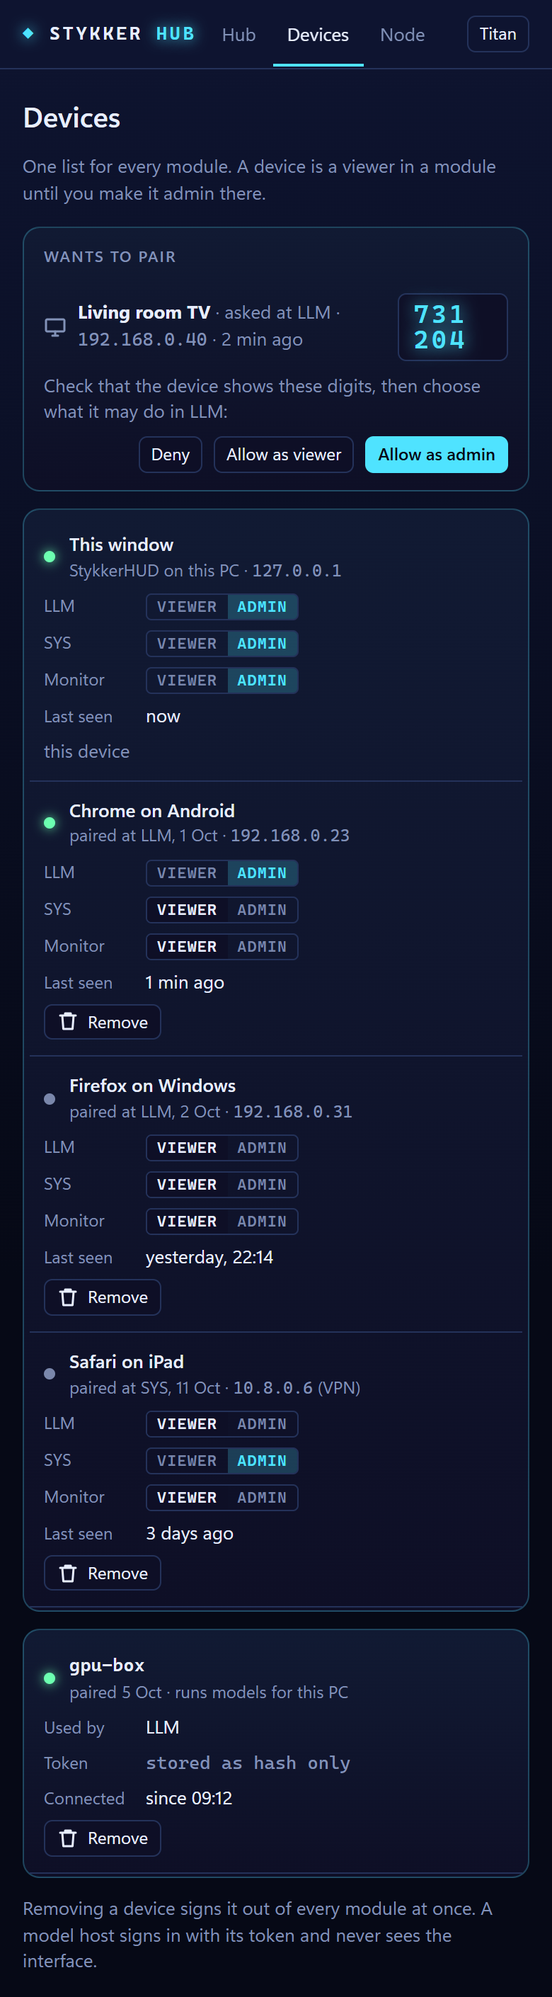
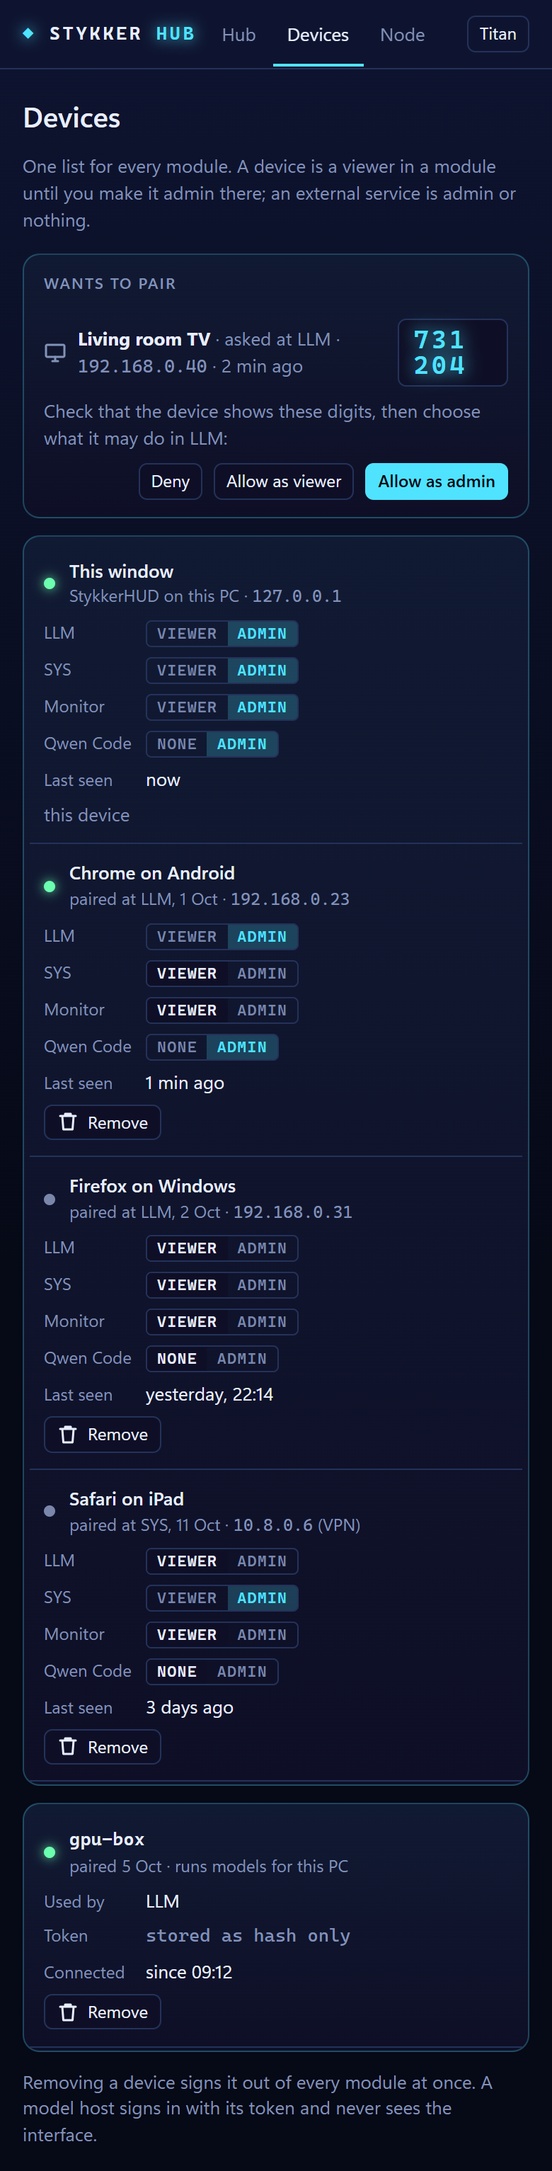
docs: own modules in the frame, mockup as a shell with a frame
HUD, SYS and LLM were shown in the hub frame; the sign-in holds across
ports as long as hub and module share a host name. The mockup keeps the
hub bar on top, shows LLM and Qwen Code in a frame and lists Qwen Code
as an external service for admins only.

diff --git a/docs/design/mockup-zentrale.html b/docs/design/mockup-zentrale.html
@@ -150,6 +150,35 @@ td.r,th.r{text-align:right}
 
 .note{margin-top:18px;color:var(--muted);font-size:12px}
 
+/* ── Hülle: die Leiste bleibt, das Modul läuft im Frame darunter ── */
+:root,[data-theme="dark"]{--m-ext:#ff6fb5}
+[data-theme="titan"]{--m-ext:#9a3b2e}
+nav .mod.ext::before{border-radius:1px;transform:rotate(45deg)}
+main.shell{max-width:none;padding:0}
+.framebar{display:flex;align-items:center;gap:10px;padding:6px 16px;border-bottom:1px solid var(--line);color:var(--muted);font-size:12px;flex-wrap:wrap}
+.framebar .grow{margin-left:auto;display:flex;align-items:center;gap:10px}
+.frame{min-height:calc(100vh - 82px);background:var(--bg)}
+.frame .inner{max-width:1360px;margin:0 auto;padding:14px 16px}
+.modnav{display:flex;align-items:center;gap:4px;margin-bottom:14px;flex-wrap:wrap}
+.modnav span{padding:5px 10px;border:1px solid transparent;border-radius:var(--radius-sm);color:var(--muted)}
+.modnav span.on{color:var(--ink);background:var(--card-2);border-color:var(--line)}
+.modnav .right{margin-left:auto;display:flex;gap:8px}
+/* Qwen bringt seine eigene Gestaltung mit: neutral dunkel, in beiden Themen gleich */
+.foreign{background:#0b0b0c;color:#e9e9ea;display:grid;grid-template-columns:52px 280px 1fr;min-height:calc(100vh - 82px);font-family:"Segoe UI",system-ui,sans-serif}
+.foreign .rail{border-right:1px solid #232326;display:grid;align-content:start;gap:14px;padding:14px 0;justify-items:center}
+.foreign .rail i{width:22px;height:22px;border-radius:6px;background:#1c1c1f}
+.foreign .rail i.on{background:#2a2a2f}
+.foreign .side{border-right:1px solid #232326;padding:14px}
+.foreign .side h3{font-size:16px;margin-bottom:14px}
+.foreign .side p{margin:6px 0;color:#8d8d93}
+.foreign .side p b{color:#e9e9ea;font-weight:600}
+.foreign .stage{display:grid;place-content:center;gap:14px;padding:24px;text-align:center}
+.foreign .stage h2{font-size:26px}
+.foreign .stage h2 em{font-style:normal;color:#7b6cf6}
+.foreign .composer{width:min(720px,70vw);text-align:left;background:#1d1d20;border:1px solid #3a4a7a;border-radius:10px;padding:14px;color:#8d8d93}
+.foreign .composer div{margin-top:26px;font-size:12px}
+@media (max-width:900px){.foreign{grid-template-columns:1fr}.foreign .rail,.foreign .side{display:none}}
+
 @media (max-width:1020px){.cols{grid-template-columns:1fr}}
 @media (max-width:640px){
   .tiles,.pair-wrap{grid-template-columns:1fr}
@@ -201,6 +230,8 @@ td.r,th.r{text-align:right}
       <button class="mod" style="--m:var(--m-hud)">Monitor</button>
       <button class="mod off">CMD</button>
       <span class="sep"></span>
+      <button data-view="qwen" class="mod ext" style="--m:var(--m-ext)">Qwen Code</button>
+      <span class="sep"></span>
       <button data-view="pair">Sign-in page</button>
     </nav>
     <div class="tools">
@@ -215,7 +246,7 @@ td.r,th.r{text-align:right}
 
 <!-- ═══ Hub ═══ -->
 <section class="view" id="hub">
-  <div class="head"><h1>Hub</h1><span class="muted">3 of 4 modules running · node up <span class="num">6 d 4 h</span></span></div>
+  <div class="head"><h1>Hub</h1><span class="muted">3 of 4 modules running · 1 external service · node up <span class="num">6 d 4 h</span></span></div>
   <div class="cols">
     <div class="stack">
       <div class="notice">
@@ -233,7 +264,7 @@ td.r,th.r{text-align:right}
             <div class="metric"><span class="v">17.2<small>/ 24 GB</small></span><span class="k"><svg class="ic"><use href="#i-vram"/></svg>VRAM</span></div>
           </div>
           <div class="bar-track"><i style="width:72%"></i></div>
-          <div class="tile-foot"><span class="role"><span class="role-tag admin">admin</span></span><span class="muted mono">/llm</span><button class="btn sm">Open<svg class="ic"><use href="#i-open"/></svg></button></div>
+          <div class="tile-foot"><span class="role"><span class="role-tag admin">admin</span></span><span class="muted mono">:8078</span><button class="btn sm">Open<svg class="ic"><use href="#i-open"/></svg></button></div>
         </article>
 
         <article class="card tile" style="--m:var(--m-sys)">
@@ -244,7 +275,7 @@ td.r,th.r{text-align:right}
             <div class="metric"><span class="v">14.3<small>%</small></span><span class="k"><svg class="ic"><use href="#i-cpu"/></svg>Top: llama-server</span></div>
           </div>
           <div class="bar-track"><i style="width:14%"></i></div>
-          <div class="tile-foot"><span class="role"><span class="role-tag">viewer</span> <span class="muted">· you can look, not end processes</span></span><span class="muted mono">/sys</span><button class="btn sm">Open<svg class="ic"><use href="#i-open"/></svg></button></div>
+          <div class="tile-foot"><span class="role"><span class="role-tag">viewer</span> <span class="muted">· you can look, not end processes</span></span><span class="muted mono">:8077</span><button class="btn sm">Open<svg class="ic"><use href="#i-open"/></svg></button></div>
         </article>
 
         <article class="card tile" style="--m:var(--m-hud)">
@@ -255,13 +286,19 @@ td.r,th.r{text-align:right}
             <div class="metric"><span class="v">61.0<small>%</small></span><span class="k"><svg class="ic"><use href="#i-vram"/></svg>GPU</span></div>
           </div>
           <div class="bar-track"><i style="width:23%"></i></div>
-          <div class="tile-foot"><span class="role"><span class="role-tag admin">admin</span></span><span class="muted mono">/hud</span><button class="btn sm">Open<svg class="ic"><use href="#i-open"/></svg></button></div>
+          <div class="tile-foot"><span class="role"><span class="role-tag admin">admin</span></span><span class="muted mono">:8079</span><button class="btn sm">Open<svg class="ic"><use href="#i-open"/></svg></button></div>
         </article>
 
         <article class="card tile off" style="--m:var(--m-cmd)">
           <div class="tile-top"><h2>CMD</h2><span class="what">File manager</span><span class="chip state"><span class="lamp"></span>Not connected</span></div>
           <p class="muted" style="margin:0">StykkerCMD has no web interface yet. Once it has one, it appears here and shares the devices you already paired. File access will need the <span class="mono">admin</span> role and a list of folders you allow.</p>
           <div class="tile-foot"><span class="role muted">Not installed as a module</span></div>
+        </article>
+
+        <article class="card tile" style="--m:var(--m-ext)">
+          <div class="tile-top"><h2>QWEN CODE</h2><span class="what">Coding agent · external</span><span class="chip on state"><span class="lamp good"></span>Reachable</span></div>
+          <p class="muted" style="margin:0">Not a Stykker program. The node shows it in a frame and signs in for you, so a paired device needs no second code. An external service has no viewer role: it is open to admins or to nobody.</p>
+          <div class="tile-foot"><span class="role"><span class="role-tag admin">admin only</span></span><span class="muted mono">:8076</span><button class="btn sm">Open<svg class="ic"><use href="#i-open"/></svg></button></div>
         </article>
 
       </div>
@@ -292,7 +329,7 @@ td.r,th.r{text-align:right}
 
 <!-- ═══ Devices ═══ -->
 <section class="view" id="devices">
-  <div class="head"><h1>Devices</h1><span class="muted">One list for every module. A device is a viewer in a module until you make it admin there.</span></div>
+  <div class="head"><h1>Devices</h1><span class="muted">One list for every module. A device is a viewer in a module until you make it admin there; an external service is admin or nothing.</span></div>
   <div class="stack">
     <div class="card request">
       <span class="label">Wants to pair</span>
@@ -309,13 +346,14 @@ td.r,th.r{text-align:right}
 
     <div class="card" style="padding:4px 4px 2px">
       <table>
-        <thead><tr><th>Device</th><th>LLM</th><th>SYS</th><th>Monitor</th><th>Last seen</th><th class="r"></th></tr></thead>
+        <thead><tr><th>Device</th><th>LLM</th><th>SYS</th><th>Monitor</th><th>Qwen Code</th><th>Last seen</th><th class="r"></th></tr></thead>
         <tbody>
           <tr>
             <td><div class="dev"><span class="lamp good"></span><div><b>This window</b><small>StykkerHUD on this PC · <span class="mono">127.0.0.1</span></small></div></div></td>
             <td data-k="LLM"><span class="seg"><span>viewer</span><span class="on admin">admin</span></span></td>
             <td data-k="SYS"><span class="seg"><span>viewer</span><span class="on admin">admin</span></span></td>
             <td data-k="Monitor"><span class="seg"><span>viewer</span><span class="on admin">admin</span></span></td>
+            <td data-k="Qwen Code"><span class="seg"><span>none</span><span class="on admin">admin</span></span></td>
             <td data-k="Last seen">now</td>
             <td class="r"><span class="muted">this device</span></td>
           </tr>
@@ -324,6 +362,7 @@ td.r,th.r{text-align:right}
             <td data-k="LLM"><span class="seg"><span>viewer</span><span class="on admin">admin</span></span></td>
             <td data-k="SYS"><span class="seg"><span class="on">viewer</span><span>admin</span></span></td>
             <td data-k="Monitor"><span class="seg"><span class="on">viewer</span><span>admin</span></span></td>
+            <td data-k="Qwen Code"><span class="seg"><span>none</span><span class="on admin">admin</span></span></td>
             <td data-k="Last seen">1 min ago</td>
             <td class="r"><button class="btn sm danger"><svg class="ic"><use href="#i-trash"/></svg>Remove</button></td>
           </tr>
@@ -332,6 +371,7 @@ td.r,th.r{text-align:right}
             <td data-k="LLM"><span class="seg"><span class="on">viewer</span><span>admin</span></span></td>
             <td data-k="SYS"><span class="seg"><span class="on">viewer</span><span>admin</span></span></td>
             <td data-k="Monitor"><span class="seg"><span class="on">viewer</span><span>admin</span></span></td>
+            <td data-k="Qwen Code"><span class="seg"><span class="on">none</span><span>admin</span></span></td>
             <td data-k="Last seen">yesterday, 22:14</td>
             <td class="r"><button class="btn sm danger"><svg class="ic"><use href="#i-trash"/></svg>Remove</button></td>
           </tr>
@@ -340,6 +380,7 @@ td.r,th.r{text-align:right}
             <td data-k="LLM"><span class="seg"><span class="on">viewer</span><span>admin</span></span></td>
             <td data-k="SYS"><span class="seg"><span>viewer</span><span class="on admin">admin</span></span></td>
             <td data-k="Monitor"><span class="seg"><span class="on">viewer</span><span>admin</span></span></td>
+            <td data-k="Qwen Code"><span class="seg"><span class="on">none</span><span>admin</span></span></td>
             <td data-k="Last seen">3 days ago</td>
             <td class="r"><button class="btn sm danger"><svg class="ic"><use href="#i-trash"/></svg>Remove</button></td>
           </tr>
@@ -367,42 +408,46 @@ td.r,th.r{text-align:right}
 
 <!-- ═══ Node ═══ -->
 <section class="view" id="node">
-  <div class="head"><h1>Node</h1><span class="muted">StykkerNode starts the modules and is the only door from the network.</span></div>
+  <div class="head"><h1>Node</h1><span class="muted">StykkerNode starts the modules and forwards to services that cannot be framed.</span></div>
   <div class="cols">
     <div class="stack">
       <div class="card" style="padding:4px 4px 2px">
         <table>
-          <thead><tr><th>Module</th><th>State</th><th>Listens on</th><th>Path</th><th>Up</th><th class="r"></th></tr></thead>
+          <thead><tr><th>Module</th><th>State</th><th>Listens on</th><th>In the hub</th><th>Up</th><th class="r"></th></tr></thead>
           <tbody>
             <tr>
               <td><div class="dev"><span class="lamp good"></span><div><b class="mono">LLM</b><small>StykkerLLM-Server · PID <span class="num">18 204</span></small></div></div></td>
-              <td data-k="State">Running</td><td data-k="Listens on" class="mono">127.0.0.1:8078</td><td data-k="Path" class="mono">/llm</td><td data-k="Up" class="num">6 d 4 h</td>
+              <td data-k="State">Running</td><td data-k="Listens on" class="mono">:8078</td><td data-k="In the hub">frame</td><td data-k="Up" class="num">6 d 4 h</td>
               <td class="r"><button class="btn sm"><svg class="ic"><use href="#i-restart"/></svg>Restart</button></td>
             </tr>
             <tr>
               <td><div class="dev"><span class="lamp warn"></span><div><b class="mono">SYS</b><small>StykkerSYS · PID <span class="num">9 112</span></small></div></div></td>
-              <td data-k="State">Restarted <span class="num">1×</span> today</td><td data-k="Listens on" class="mono">127.0.0.1:8077</td><td data-k="Path" class="mono">/sys</td><td data-k="Up" class="num">2 h 51 min</td>
+              <td data-k="State">Restarted <span class="num">1×</span> today</td><td data-k="Listens on" class="mono">:8077</td><td data-k="In the hub">frame</td><td data-k="Up" class="num">2 h 51 min</td>
               <td class="r"><button class="btn sm"><svg class="ic"><use href="#i-restart"/></svg>Restart</button></td>
             </tr>
             <tr>
               <td><div class="dev"><span class="lamp good"></span><div><b class="mono">HUD</b><small>StykkerHUD · PID <span class="num">4 660</span></small></div></div></td>
-              <td data-k="State">Running</td><td data-k="Listens on" class="mono">127.0.0.1:8079</td><td data-k="Path" class="mono">/hud</td><td data-k="Up" class="num">6 d 4 h</td>
+              <td data-k="State">Running</td><td data-k="Listens on" class="mono">:8079</td><td data-k="In the hub">frame</td><td data-k="Up" class="num">6 d 4 h</td>
               <td class="r"><button class="btn sm"><svg class="ic"><use href="#i-restart"/></svg>Restart</button></td>
             </tr>
             <tr>
               <td><div class="dev"><span class="lamp"></span><div><b class="mono">CMD</b><small class="muted">not in stykker.json</small></div></div></td>
-              <td data-k="State" class="muted">Not connected</td><td data-k="Listens on" class="muted">–</td><td data-k="Path" class="muted">–</td><td data-k="Up" class="muted">–</td>
+              <td data-k="State" class="muted">Not connected</td><td data-k="Listens on" class="muted">–</td><td data-k="In the hub" class="muted">–</td><td data-k="Up" class="muted">–</td>
               <td class="r"></td>
+            </tr>
+            <tr>
+              <td><div class="dev"><span class="lamp good"></span><div><b class="mono">Qwen Code</b><small>external · not started by the node</small></div></div></td>
+              <td data-k="State">Reachable</td><td data-k="Listens on" class="mono">127.0.0.1:51724</td><td data-k="In the hub">frame, port <span class="mono">8076</span></td><td data-k="Up" class="muted">–</td>
+              <td class="r"><span class="muted">forwarded</span></td>
             </tr>
           </tbody>
         </table>
       </div>
       <div class="card">
-        <span class="label">Recent</span>
-        <pre class="log"><b>13:02:42</b>  SYS answers on 127.0.0.1:8077
+        <span class="label">Recent</span>        <pre class="log"><b>13:02:42</b>  SYS answers on :8077
 <span class="w"><b>13:02:41</b>  SYS ended with code 1 – started again, the other modules kept running</span>
 <b>11:47:09</b>  192.168.0.77 refused: not paired
-<b>09:12:30</b>  host gpu-box connected through /llm/hosts/connect
+<b>09:12:30</b>  host gpu-box connected to LLM
 <b>09:12:02</b>  node started, 3 modules from stykker.json</pre>
       </div>
     </div>
@@ -412,7 +457,8 @@ td.r,th.r{text-align:right}
         <div class="switch"><span class="toggle on"></span><div><b>Home/VPN</b><div class="muted">Paired devices in your network can reach the node. Off: only this PC.</div></div></div>
         <dl class="kv" style="margin-top:12px">
           <dt>Node port</dt><dd class="mono">8075</dd>
-          <dt>Modules</dt><dd>only on <span class="mono">127.0.0.1</span></dd>
+          <dt>Modules</dt><dd>own port each, check pairing themselves</dd>
+          <dt>External services</dt><dd>own port each, <span class="mono">admin</span> only</dd>
           <dt>Proxy for coding tools</dt><dd class="mono">:17500 <span class="muted">(direct)</span></dd>
         </dl>
       </div>
@@ -460,9 +506,18 @@ td.r,th.r{text-align:right}
   <p class="note" style="text-align:center">From the network this page only answers while Home/VPN is on. It never shows the PC's own code to a device that is not this PC.</p>
 </section>
 
-<!-- ═══ Modul in der Zentrale: LLM ═══ -->
-<section class="view" id="llm">
-  <div class="crumb"><span>Hub</span><span>›</span><b style="color:var(--ink)">LLM</b><span class="role-tag admin" style="margin-left:6px">admin</span><span style="margin-left:auto" class="mono">http://workstation:8075/llm</span></div>
+<!-- ═══ Modul im Frame: LLM. Die Leiste oben gehört der Zentrale, alles darunter ist die Seite des Moduls. ═══ -->
+<section class="view framed" id="llm">
+  <div class="framebar">
+    <span class="lamp good"></span><b style="color:var(--ink)">LLM</b><span>own module · shown in a frame</span>
+    <span class="role-tag admin">admin</span>
+    <span class="grow"><span class="mono">http://workstation:8078/</span><button class="btn sm quiet">Open in its own tab<svg class="ic"><use href="#i-open"/></svg></button></span>
+  </div>
+  <div class="frame"><div class="inner">
+  <div class="modnav">
+    <span class="on">Monitor</span><span>Model tests</span><span>Benchmarks</span><span>Recordings</span>
+    <span class="right"><span class="chip"><svg class="ic"><use href="#i-vram"/></svg><span class="num">17.2 / 24 GB</span></span><span class="chip"><svg class="ic"><use href="#i-proxy"/></svg>Proxy on</span></span>
+  </div>
   <div class="cols">
     <div class="stack">
       <article class="card server">
@@ -499,9 +554,36 @@ td.r,th.r{text-align:right}
       </div>
       <div class="card">
         <span class="label">Inside the Hub</span>
-        <p class="muted" style="margin:0">This is the page StykkerLLM serves on its own port, reached under <span class="mono">/llm</span>. Same pages, same buttons. The bar on top comes from the Hub; devices and roles moved to <b style="color:var(--ink)">Devices</b>.</p>
+        <p class="muted" style="margin:0">This is the page StykkerLLM serves on its own port, shown in a frame. Same pages, same buttons. In the frame it leaves out its own brand line and follows the Hub's theme; devices and roles moved to <b style="color:var(--ink)">Devices</b>.</p>
       </div>
     </aside>
+  </div>
+  </div></div>
+</section>
+
+<!-- ═══ Fremder Dienst im Frame: Qwen Code, über die Weiterleitung des Knotens ═══ -->
+<section class="view framed" id="qwen">
+  <div class="framebar">
+    <span class="lamp good"></span><b style="color:var(--ink)">Qwen Code</b><span>external · through the node, which signs in for you</span>
+    <span class="role-tag admin">admin only</span>
+    <span class="grow"><span class="mono">http://workstation:8076/</span><button class="btn sm quiet">Open in its own tab<svg class="ic"><use href="#i-open"/></svg></button></span>
+  </div>
+  <div class="foreign">
+    <div class="rail"><i class="on"></i><i></i><i></i><i></i><i></i></div>
+    <div class="side">
+      <h3>Qwen Code</h3>
+      <p><b>New task</b></p>
+      <p style="margin-top:14px">Project</p>
+      <p><b>stykker</b></p>
+      <p>Hub shell with a frame</p>
+      <p>Pairing store, phase 1</p>
+      <p style="margin-top:14px">Archived</p>
+    </div>
+    <div class="stage">
+      <h2>Welcome to <em>Qwen Code</em></h2>
+      <div style="color:#8d8d93">What would you like to do?</div>
+      <div class="composer">Type a message or @ file path<div>Classifier Approval · coder-model</div></div>
+    </div>
   </div>
 </section>
 
@@ -509,12 +591,13 @@ td.r,th.r{text-align:right}
 
 <script>
 (function () {
-  var views = ['hub', 'devices', 'node', 'pair', 'llm'];
+  var views = ['hub', 'devices', 'node', 'pair', 'llm', 'qwen'];
   function show() {
     var parts = location.hash.replace('#', '').split(';');
     var view = views.indexOf(parts[0]) >= 0 ? parts[0] : 'hub';
     if (parts[1]) document.documentElement.dataset.theme = parts[1] === 'titan' ? 'titan' : 'dark';
     views.forEach(function (id) { document.getElementById(id).classList.toggle('show', id === view); });
+    document.querySelector('main').classList.toggle('shell', document.getElementById(view).classList.contains('framed'));
     document.querySelectorAll('#nav button').forEach(function (b) {
       if (b.dataset.view === view) b.setAttribute('aria-current', 'page'); else b.removeAttribute('aria-current');
     });

diff --git a/spikes/frame-proxy/Program.cs b/spikes/frame-proxy/Program.cs
@@ -6,10 +6,11 @@ using Yarp.ReverseProxy.Forwarder;
 // Versuch: Hülle der Zentrale (Leiste + Frame) auf einem Port, auf einem zweiten Port eine Weiterleitung zu einem
 // fremden Web-Dienst, der sich von sich aus nicht einbetten lässt.
 //
-//   FrameProxy --target http://127.0.0.1:41999 [--hub 8075] [--frame 8076] [--token <Token des Dienstes>]
+//   FrameProxy --target http://127.0.0.1:41999 [--hub 8075] [--frame 8076] [--token <Token des Dienstes>] [--host <Adresse>]
 //
 // Mit --token setzt die Weiterleitung das Token des Dienstes selbst ein: der Browser braucht es dann nicht.
-// Der Versuch hört nur auf 127.0.0.1 und prüft keine Kopplung – das käme im Knoten davor.
+// Der Versuch hört nur auf 127.0.0.1 (oder --host) und prüft keine Kopplung – das käme im Knoten davor.
+// Die Hülle zeigt mit ?url=<Adresse> auch ein beliebiges Modul im Frame (für die eigenen Module, ohne Weiterleitung).
 
 string Arg(string name, string fallback) =>
     Array.IndexOf(args, name) is var i and >= 0 && i + 1 < args.Length ? args[i + 1] : fallback;
@@ -18,15 +19,16 @@ var hubPort = int.Parse(Arg("--hub", "8075"));
 var framePort = int.Parse(Arg("--frame", "8076"));
 var target = Arg("--target", "http://127.0.0.1:41999").TrimEnd('/');
 var token = Arg("--token", "");
-var hubOrigin = $"http://127.0.0.1:{hubPort}";
-var frameOrigin = $"http://127.0.0.1:{framePort}";
+var host = Arg("--host", "127.0.0.1");
+var hubOrigin = $"http://{host}:{hubPort}";
+var frameOrigin = $"http://{host}:{framePort}";
 
 var builder = WebApplication.CreateBuilder();
 builder.Logging.SetMinimumLevel(LogLevel.Warning);
 builder.WebHost.ConfigureKestrel(kestrel =>
 {
-    kestrel.Listen(IPAddress.Loopback, hubPort);
-    kestrel.Listen(IPAddress.Loopback, framePort);
+    kestrel.Listen(IPAddress.Parse(host), hubPort);
+    kestrel.Listen(IPAddress.Parse(host), framePort);
 });
 builder.Services.AddHttpForwarder();
 var app = builder.Build();
@@ -147,8 +149,8 @@ static class Shell
         <script>
           var query = new URLSearchParams(location.search);
           var direct = query.get('src') === 'direct';
-          var src = (direct ? '{{target}}' : '{{frameOrigin}}') + '/' + location.hash;
-          document.getElementById(direct ? 'direct' : 'via').className = 'on';
+          var src = query.get('url') || (direct ? '{{target}}' : '{{frameOrigin}}') + '/' + location.hash;
+          if (!query.get('url')) document.getElementById(direct ? 'direct' : 'via').className = 'on';
           document.getElementById('where').textContent = src.replace(/#.*/, '');
           document.getElementById('frame').src = src;
         </script>

diff --git a/docs/spike-frame-proxy.md b/docs/spike-frame-proxy.md
@@ -37,6 +37,30 @@ Qwen lässt das Einbetten per Einstellung nur für Browser-Erweiterungen zu (`ch
 - **Ein Port je fremdem Dienst, kein Pfad.** Die Qwen-Oberfläche liegt an der Wurzel ihrer Adresse. Im Versuch hat die Weiterleitung einen eigenen Port; unter `/qwen` ist es nicht versucht.
 - **Token-Einsatz macht die doppelte Kopplung überflüssig.** Prüft der Knoten vor der Weiterleitung die Stykker-Kopplung und setzt dann das Token ein, braucht das Handy keinen QR-Code von Qwen mehr.
 
+## Eigene Module im Frame
+
+Zweiter Teil, selber Tag: StykkerHUD, StykkerSYS und StykkerLLM (im Simulator) direkt im Frame der Hülle, ohne Weiterleitung.
+
+| Fall | Ergebnis |
+|---|---|
+| HUD und SYS im Frame | Laden und zeigen Werte. Sie senden kein Einbett-Verbot. |
+| LLM im Frame, unverändert | Blockiert: Blazor Server setzt von sich aus `frame-ancestors 'self'`, und die Hülle auf einem anderen Port ist für den Browser eine andere Herkunft. |
+| LLM im Frame, mit `--hub-port` | Lädt, die Blazor-Verbindung (`/_blazor`) steht. |
+| Gerät an LLM `:8090` angemeldet, Frame zeigt eine zweite LLM-Instanz auf `:8091` mit derselben Geräteliste | Ohne neue Anmeldung drin. Das Cookie gilt für den Rechnernamen, nicht für den Port, und es wird im Frame mitgeschickt. |
+| Dasselbe mit einem Gerät ohne Anmeldung | Die Anmeldeseite erscheint im Frame. |
+| Hülle unter einem anderen Rechnernamen als das Modul | Blockiert (und ohne das Verbot käme die Anmeldeseite: der Browser gibt das Cookie dann nicht in den Frame). |
+
+Daraus folgt:
+
+- **`--hub-port` in StykkerLLM** (neu, `llm/src/StykkerLlm.Core/Server/FramePolicy.cs`): erlaubt genau die Zentrale unter demselben Rechnernamen und diesem Port. Ohne den Schalter bleibt alles wie bisher. Der Port kommt später aus `stykker.json`.
+- **Hülle und Module müssen unter demselben Rechnernamen aufgerufen werden.** Sonst gilt die Anmeldung im Frame nicht.
+- **Die gemeinsame Geräteliste trägt die Anmeldung über die Module.** Das war die Annahme hinter „ein neues Modul sieht die vorhandene Kopplung“; mit zwei LLM-Instanzen und kopierter `access.dat` ist sie im Browser bestätigt.
+- **Doppelte Kopfzeile:** Im Frame steht unter der Leiste der Zentrale die eigene Kopfzeile des Moduls mit Marke und Thema. Ein Modul braucht eine eingebettete Darstellung ohne Marke, die dem Thema der Zentrale folgt. Im Mockup ist das so gezeichnet, gebaut ist es nicht.
+
+Bilder: `design/screenshots/frame-hud.png`, `frame-llm.png`, `frame-llm-other-port.png`. Von SYS im Frame gibt es bewusst kein Bild im Repo: es zeigt die Prozesse der Maschine.
+
+HUD und SYS prüfen noch keine Kopplung und hören nur auf `127.0.0.1`. Im Netz lassen sie sich so erst zeigen, wenn sie die gemeinsame Prüfung haben (Phasen 5 und 6) oder der Knoten davor steht.
+
 ## Was der Versuch nicht zeigt
 
 - **Keine Kopplung davor.** Der Versuch hört nur auf `127.0.0.1` und prüft niemanden. Mit Token-Einsatz wäre er im Netz eine offene Tür zu einem Coding-Agenten. Im Knoten gehört die Prüfung von Kopplung und Rolle `admin` vor die Weiterleitung.
@@ -44,7 +68,7 @@ Qwen lässt das Einbetten per Einstellung nur für Browser-Erweiterungen zu (`ch
 - **Nicht gegen die Desktop-App.** Deren Daemon hat einen zufälligen Port und ein Token, das nur die App kennt. Der Weg dorthin (Token übergeben, oder über den Local-Control-Port mit einem eigenen Geräte-Token) ist offen.
 - **Nicht am Handy** und nur mit Edge.
 - **Service Worker und PWA** von Qwen im Frame sind nicht geprüft.
-- **Unsere eigenen Module im Frame** sind nicht geprüft. Die Annahme, dass das Geräte-Cookie über die Ports hinweg gilt, steht noch aus.
+- **Aktionen im Frame** (ein Modell stoppen, einen Prozess beenden) sind nicht ausgelöst worden, nur das Laden und die laufende Anzeige.
 
 ## Nachstellen
 
